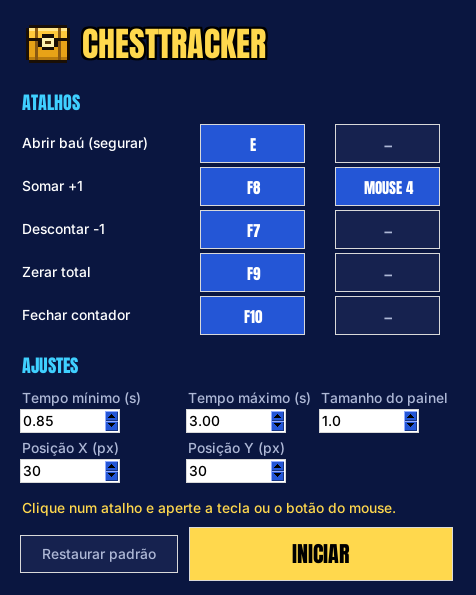
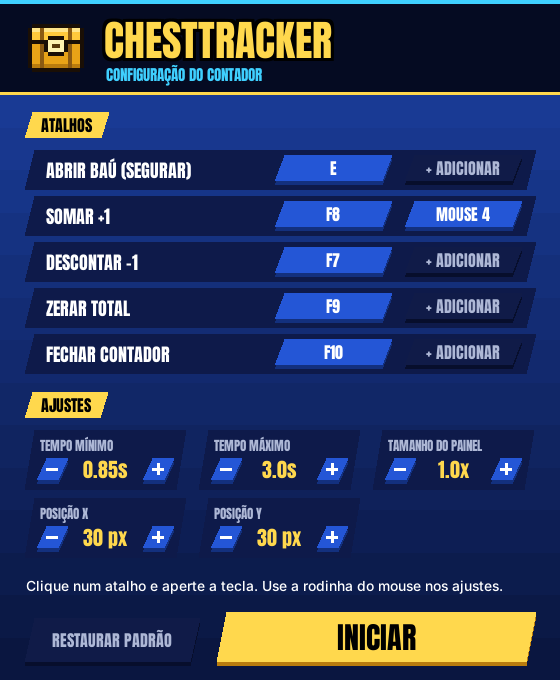
Janela de configuração redesenhada no estilo do jogo
- Tela desenhada inteira: cabeçalho com o baú, etiquetas de seção, teclas inclinadas com relevo
- Tecla em captura pisca em amarelo; espaços vazios mostram + ADICIONAR
- Ajustes com botões + e − (segurar repete) e rodinha do mouse
- Erros aparecem em vermelho; INICIAR em destaque

diff --git a/contador_baus.py b/contador_baus.py
@@ -381,156 +381,228 @@ def escolher_fonte(root):
     return next((f for f in FONTES if f in familias), "Arial")
 
 
+# Ajustes da janela: chave, rótulo, passo, mínimo, máximo, formato do valor
+AJUSTES = (("min", "TEMPO MÍNIMO", 0.05, 0.1, 10, "{:.2f}s"), ("max", "TEMPO MÁXIMO", 0.1, 0.2, 30, "{:.1f}s"),
+           ("escala", "TAMANHO DO PAINEL", 0.1, 0.3, 5, "{:.1f}x"), ("x", "POSIÇÃO X", 10, 0, 7680, "{:.0f} px"),
+           ("y", "POSIÇÃO Y", 10, 0, 4320, "{:.0f} px"))
+TECLA, TECLA_HOVER, TECLA_VAZIA, CARTAO, BORDA = "#2456D6", "#3A6BEA", "#101B48", "#0E1A4A", "#2A3A78"
+
+
 def configurar(cfg, arquivo_cfg):
-    """Janela antes do overlay: atalhos, tempos e painel. Devolve a config escolhida ou None se fechar."""
+    """Tela antes do overlay, no estilo do jogo: atalhos e ajustes. Devolve a config escolhida ou None."""
     import queue
     import tkinter as tk
+    from tkinter import font as tkfont
     from pynput import keyboard, mouse
 
     cfg = copia(cfg)  # só vale se clicar em INICIAR
+    W, H = 560, 680
     root = tk.Tk()
     root.title("ChestTracker")
-    root.configure(bg=AZUL_NOITE, padx=20, pady=14)
     root.resizable(False, False)
     colocar_icone(root)
+    cv = tk.Canvas(root, width=W, height=H, bg=AZUL_NOITE, highlightthickness=0)
+    cv.pack()
     fam = escolher_fonte(root)
-    normal = ("Segoe UI", 10)
+    medir = tkfont.Font(root, family=fam, size=-16).measure
+    pequena = ("Segoe UI Semibold", 10)
 
-    topo = tk.Canvas(root, width=380, height=60, bg=AZUL_NOITE, highlightthickness=0)
-    topo.grid(row=0, column=0, columnspan=3, sticky="w")
-    desenhar_bau(topo, 28, 30, 3.2)
-    texto(topo, 62, 30, "CHESTTRACKER", (fam, -34), AMARELO, 2)
+    ui = {"hover": None, "alvo": None, "ouvintes": [], "erro": False, "fase": 0, "repetir": None,
+          "status": "Clique num atalho e aperte a tecla. Use a rodinha do mouse nos ajustes."}
+    fila, regioes = queue.Queue(), []
 
-    def secao(linha, nome):
-        tk.Label(root, text=nome, font=(fam, -18), fg=CIANO, bg=AZUL_NOITE).grid(
-            row=linha, column=0, columnspan=3, sticky="w", pady=(12, 4))
+    def caixa(x0, y0, x1, y1, cor, sk=10, borda=""):
+        """Retângulo inclinado, como os botões do jogo."""
+        cv.create_polygon(x0 + sk, y0, x1, y0, x1 - sk, y1, x0, y1, fill=cor, outline=borda, width=2 if borda else 0)
 
-    botoes, captura, fila = {}, {"alvo": None, "ouvintes": []}, queue.Queue()
-    status = tk.StringVar(value="Clique num atalho e aperte a tecla ou o botão do mouse.")
+    def botao(id_, x0, y0, x1, y1, cor, cor_hover, aresta):
+        """Caixa com "aresta" mais escura embaixo, para parecer tecla; registra a área de clique."""
+        caixa(x0, y0 + 4, x1, y1 + 4, aresta)
+        caixa(x0, y0, x1, y1, cor_hover if ui["hover"] == id_ else cor)
+        regioes.append((x0, y0, x1, y1 + 4, id_))
 
-    def pintar():
-        for (acao, i), b in botoes.items():
-            nome = cfg["atalhos"][acao][i]
-            b.config(text=exibir(nome), bg=AZUL_TOPO if nome else ANEL, fg=BRANCO if nome else CINZA)
+    def render():
+        cv.delete("all")
+        regioes.clear()
+        for i in range(16):  # degradê igual ao do painel
+            cv.create_rectangle(0, H * i / 16, W, H * (i + 1) / 16 + 1, outline="",
+                                fill=misturar(AZUL_TOPO, AZUL_NOITE, 0.35 + 0.65 * i / 15))
+
+        cv.create_rectangle(0, 0, W, 92, fill=AZUL_FAIXA, outline="")
+        cv.create_rectangle(0, 0, W, 4, fill=CIANO, outline="")
+        cv.create_rectangle(0, 92, W, 95, fill=AMARELO, outline="")
+        desenhar_bau(cv, 56, 48, 4)
+        texto(cv, 104, 40, "CHESTTRACKER", (fam, -42), AMARELO, 3)
+        cv.create_text(106, 74, text="CONFIGURAÇÃO DO CONTADOR", font=(fam, -15), fill=CIANO, anchor="w")
+
+        def secao(y, nome):
+            caixa(24, y, 24 + medir(nome) + 34, y + 26, AMARELO, sk=8)
+            cv.create_text(24 + 17, y + 13, text=nome, font=(fam, -16), fill=PRETO, anchor="w")
+
+        secao(112, "ATALHOS")
+        for n, (acao, rotulo) in enumerate(ACOES):
+            y = 150 + n * 46
+            caixa(24, y, W - 24, y + 40, CARTAO)
+            cv.create_text(46, y + 20, text=rotulo.upper(), font=(fam, -18), fill=BRANCO, anchor="w")
+            for i in (0, 1):
+                x0, id_ = 274 + i * 130, ("tecla", acao, i)
+                nome = cfg["atalhos"][acao][i]
+                if ui["alvo"] == (acao, i):
+                    cor = AMARELO if ui["fase"] else "#FFB000"
+                    botao(id_, x0, y + 5, x0 + 118, y + 31, cor, cor, "#8B5A12")
+                    rotulo_tecla, cor_texto = "APERTE...", PRETO
+                elif nome:
+                    botao(id_, x0, y + 5, x0 + 118, y + 31, TECLA, TECLA_HOVER, "#13307E")
+                    rotulo_tecla, cor_texto = exibir(nome), BRANCO
+                else:
+                    botao(id_, x0, y + 5, x0 + 118, y + 31, TECLA_VAZIA, BORDA, "#070E2C")
+                    rotulo_tecla, cor_texto = "+ ADICIONAR", CINZA
+                cv.create_text(x0 + 59, y + 18, text=rotulo_tecla, font=(fam, -16), fill=cor_texto)
+
+        secao(392, "AJUSTES")
+        for n, (chave, rotulo, _, _, _, fmt) in enumerate(AJUSTES):
+            x, y, w = 24 + (n % 3) * 174, 430 + (n // 3) * 68, 162
+            caixa(x, y, x + w, y + 60, CARTAO)
+            regioes.append((x, y, x + w, y + 60, ("campo", chave)))
+            cv.create_text(x + 16, y + 15, text=rotulo, font=(fam, -13), fill=CINZA, anchor="w")
+            botao(("menos", chave), x + 12, y + 28, x + 44, y + 50, TECLA, TECLA_HOVER, "#13307E")
+            botao(("mais", chave), x + w - 44, y + 28, x + w - 12, y + 50, TECLA, TECLA_HOVER, "#13307E")
+            for cx in (x + 28, x + w - 28):  # sinais desenhados: nítidos em qualquer fonte
+                cv.create_line(cx - 6, y + 39, cx + 6, y + 39, fill=BRANCO, width=3)
+            cv.create_line(x + w - 28, y + 33, x + w - 28, y + 45, fill=BRANCO, width=3)
+            cv.create_text(x + w / 2, y + 39, text=fmt.format(cfg[chave]), font=(fam, -20), fill=AMARELO)
+
+        cv.create_text(26, 586, text=ui["status"], font=pequena, width=W - 52, anchor="w",
+                       fill=VERMELHO if ui["erro"] else BRANCO)
+
+        botao(("restaurar",), 24, 618, 200, 662, TECLA_VAZIA, BORDA, "#070E2C")
+        cv.create_text(112, 640, text="RESTAURAR PADRÃO", font=(fam, -16), fill=CINZA)
+        botao(("iniciar",), 216, 612, W - 24, 662, AMARELO, "#FFE58A", "#B97C0E")
+        cv.create_text((216 + W - 24) / 2, 637, text="INICIAR", font=(fam, -30), fill=PRETO)
+
+    def avisar(msg, erro=False):
+        ui.update(status=msg, erro=erro)
+        render()
 
     def parar():
-        for o in captura["ouvintes"]:
+        for o in ui["ouvintes"]:
             o.stop()
-        captura.update(alvo=None, ouvintes=[])
+        ui.update(alvo=None, ouvintes=[])
 
     def capturar(acao, i):
         parar()
-        pintar()
-        root.focus_set()  # Backspace não pode apagar texto de um campo
-        captura["alvo"] = (acao, i)
-        botoes[(acao, i)].config(text="APERTE...", bg=AMARELO, fg=PRETO)
-        status.set("Aperte a tecla ou o botão do mouse (meio, 4 ou 5). Esc cancela, Backspace limpa.")
+        ui["alvo"] = (acao, i)
+        avisar("Aperte a tecla ou o botão do mouse (meio, 4 ou 5). Esc cancela, Backspace limpa.")
 
-        def clique(x, y, botao, apertou):  # sem return: False pararia o listener
+        def clique(x, y, b, apertou):  # sem return: False pararia o listener
             if apertou:
-                fila.put(nome_botao(botao))
+                fila.put(nome_botao(b))
 
         k = keyboard.Listener(on_press=lambda key: fila.put(nome_tecla(key)))
         m = mouse.Listener(on_click=clique)
         k.start()
         m.start()
-        captura["ouvintes"] = [k, m]
+        ui["ouvintes"] = [k, m]
 
     def receber():
         while not fila.empty():
             nome = fila.get_nowait()
-            if captura["alvo"] is None or nome is None:  # clique esquerdo/direito: continua esperando
+            if ui["alvo"] is None or nome is None:  # clique esquerdo/direito: continua esperando
                 continue
-            acao, i = captura["alvo"]
+            acao, i = ui["alvo"]
             parar()
             if nome == "esc":
-                status.set("Cancelado.")
+                avisar("Cancelado.")
             elif nome == "backspace":
                 cfg["atalhos"][acao][i] = ""
-                status.set(f"{ROTULOS[acao]}: atalho removido.")
+                avisar(f"{ROTULOS[acao]}: atalho removido.")
             else:
-                status.set(atribuir(cfg["atalhos"], acao, i, nome))
-            pintar()
+                avisar(atribuir(cfg["atalhos"], acao, i, nome))
+        fase = int(time.monotonic() * 4) % 2  # tecla em captura pisca
+        if ui["alvo"] and fase != ui["fase"]:
+            ui["fase"] = fase
+            render()
         root.after(30, receber)
 
-    secao(1, "ATALHOS")
-    for n, (acao, rotulo) in enumerate(ACOES, start=2):
-        tk.Label(root, text=rotulo, font=normal, fg=BRANCO, bg=AZUL_NOITE, anchor="w", width=18).grid(
-            row=n, column=0, sticky="w", pady=2)
-        for i in (0, 1):
-            b = tk.Button(root, command=lambda a=acao, j=i: capturar(a, j), font=(fam, -15), width=11,
-                          relief="flat", bd=0, takefocus=0, cursor="hand2",
-                          activebackground=AMARELO, activeforeground=PRETO)
-            b.grid(row=n, column=1 + i, padx=3, pady=2, ipady=2)
-            botoes[(acao, i)] = b
+    def mudar(chave, sinal):
+        _, _, passo, menor, maior, _ = next(a for a in AJUSTES if a[0] == chave)
+        v = min(max(cfg[chave] + sinal * passo, menor), maior)
+        cfg[chave] = round(v) if chave in ("x", "y") else round(v, 2)
+        ui["erro"] = False
+        render()
 
-    secao(7, "AJUSTES")
-    campos = {}
+    def segurar_mudar(id_, atraso=400):  # segurar o botão continua mudando
+        ui["repetir"] = root.after(atraso, lambda: (mudar(id_[1], -1 if id_[0] == "menos" else 1),
+                                                    segurar_mudar(id_, 60)))
 
-    def campo(linha, coluna, chave, rotulo, de, ate, passo, fmt):
-        quadro = tk.Frame(root, bg=AZUL_NOITE)
-        quadro.grid(row=linha, column=coluna, sticky="w", pady=2, padx=(0, 6))
-        tk.Label(quadro, text=rotulo, font=normal, fg=CINZA, bg=AZUL_NOITE).pack(anchor="w")
-        var = tk.StringVar(value=fmt % cfg[chave])
-        tk.Spinbox(quadro, from_=de, to=ate, increment=passo, format=fmt, textvariable=var, width=9,
-                   font=normal, relief="flat", bg=BRANCO, buttonbackground=AZUL_TOPO).pack(anchor="w")
-        var.set(fmt % cfg[chave])  # o Spinbox troca pelo valor inicial dele ao ser criado
-        campos[chave] = (var, fmt)
+    def achar(e):
+        return next((r[4] for r in reversed(regioes) if r[0] <= e.x <= r[2] and r[1] <= e.y <= r[3]), None)
 
-    campo(8, 0, "min", "Tempo mínimo (s)", 0.1, 10, 0.05, "%.2f")
-    campo(8, 1, "max", "Tempo máximo (s)", 0.2, 30, 0.1, "%.2f")
-    campo(8, 2, "escala", "Tamanho do painel", 0.3, 5, 0.1, "%.1f")
-    campo(9, 0, "x", "Posição X (px)", 0, 7680, 10, "%.0f")
-    campo(9, 1, "y", "Posição Y (px)", 0, 4320, 10, "%.0f")
+    def mover(e):
+        id_ = achar(e)
+        id_ = None if id_ and id_[0] == "campo" else id_
+        if id_ != ui["hover"]:
+            ui["hover"] = id_
+            cv.config(cursor="hand2" if id_ else "")
+            render()
 
-    tk.Label(root, textvariable=status, font=normal, fg=AMARELO, bg=AZUL_NOITE, wraplength=380,
-             justify="left", anchor="nw", height=2)  # 2 linhas fixas: a janela não muda de tamanho.grid(row=10, column=0, columnspan=3, sticky="we", pady=(12, 8))
+    def clicar(e):
+        id_ = achar(e)
+        if not id_:
+            return
+        if id_[0] == "tecla":
+            capturar(id_[1], id_[2])
+        elif id_[0] in ("menos", "mais"):
+            mudar(id_[1], -1 if id_[0] == "menos" else 1)
+            segurar_mudar(id_)
+        elif id_[0] == "iniciar":
+            iniciar()
+        elif id_[0] == "restaurar":
+            restaurar()
+
+    def soltar(_e):
+        if ui["repetir"]:
+            root.after_cancel(ui["repetir"])
+            ui["repetir"] = None
+
+    def rodinha(e):
+        id_ = achar(e)
+        if id_ and id_[0] in ("campo", "menos", "mais"):
+            mudar(id_[1], 1 if e.delta > 0 or getattr(e, "num", 0) == 4 else -1)
 
     resultado = {"cfg": None}
 
-    def iniciar(_evento=None):
-        if captura["alvo"]:
-            return  # Enter durante a captura vira atalho, não clique em INICIAR
-        novo = copia(cfg)
-        try:
-            for chave, (var, _) in campos.items():
-                v = float(var.get().replace(",", "."))
-                novo[chave] = round(v) if chave in ("x", "y") else v
-        except ValueError:
-            status.set("Algum número está inválido. Use só números, com ponto ou vírgula.")
-            return
-        erro = validar(novo)
+    def iniciar(_e=None):
+        if ui["alvo"]:
+            return  # Enter durante a captura vira atalho, não INICIAR
+        erro = validar(cfg)
         if erro:
-            status.set(erro)
+            avisar(erro, erro=True)
             return
-        salvar_json(arquivo_cfg, novo)
-        resultado["cfg"] = novo
-        parar()
-        root.destroy()
+        salvar_json(arquivo_cfg, cfg)
+        resultado["cfg"] = copia(cfg)
+        fechar()
 
     def restaurar():
         parar()
         cfg.clear()
         cfg.update(copia(PADRAO))
-        for chave, (var, fmt) in campos.items():
-            var.set(fmt % cfg[chave])
-        pintar()
-        status.set("Atalhos e ajustes voltaram ao padrão.")
+        avisar("Atalhos e ajustes voltaram ao padrão.")
 
     def fechar():
         parar()
+        soltar(None)
         root.destroy()
 
-    tk.Button(root, text="Restaurar padrão", command=restaurar, font=normal, relief="flat", bd=0,
-              bg=ANEL, fg=CINZA, activebackground=AZUL_TOPO, cursor="hand2").grid(
-        row=11, column=0, sticky="w", ipadx=8, ipady=4)
-    tk.Button(root, text="INICIAR", command=iniciar, font=(fam, -22), relief="flat", bd=0,
-              bg=AMARELO, fg=PRETO, activebackground="#FFB000", cursor="hand2").grid(
-        row=11, column=1, columnspan=2, sticky="we", padx=3, ipady=4)
-
+    cv.bind("<Motion>", mover)
+    cv.bind("<Button-1>", clicar)
+    cv.bind("<ButtonRelease-1>", soltar)
+    cv.bind("<MouseWheel>", rodinha)  # Windows
+    cv.bind("<Button-4>", rodinha)    # Linux
+    cv.bind("<Button-5>", rodinha)
     root.bind("<Return>", iniciar)
     root.protocol("WM_DELETE_WINDOW", fechar)
-    pintar()
+    render()
     receber()
     root.mainloop()
     return resultado["cfg"]

diff --git a/README.md b/README.md
@@ -54,6 +54,7 @@ Antes do painel abre uma janela para ajustar tudo. As escolhas ficam salvas em `
 - **Atalhos:** clique num botão e aperte a tecla ou o botão do mouse. Cada ação aceita até 2 atalhos. **Esc** cancela e **Backspace** deixa o espaço vazio. Se o atalho já estava em outra ação, ele sai de lá.
 - **Tempo mínimo e máximo:** segurar a tecla de abrir baú por um tempo entre os dois conta +1. O padrão é de 0,85 s a 3 s.
 - **Tamanho e posição do painel:** use 1.5 ou mais em telas 2K/4K.
+- **Mudar os números:** clique em **+** e **−** (segure para ir mais rápido) ou use a rodinha do mouse em cima do ajuste.
 
 | Ação | Atalho padrão |
 |---|---|
